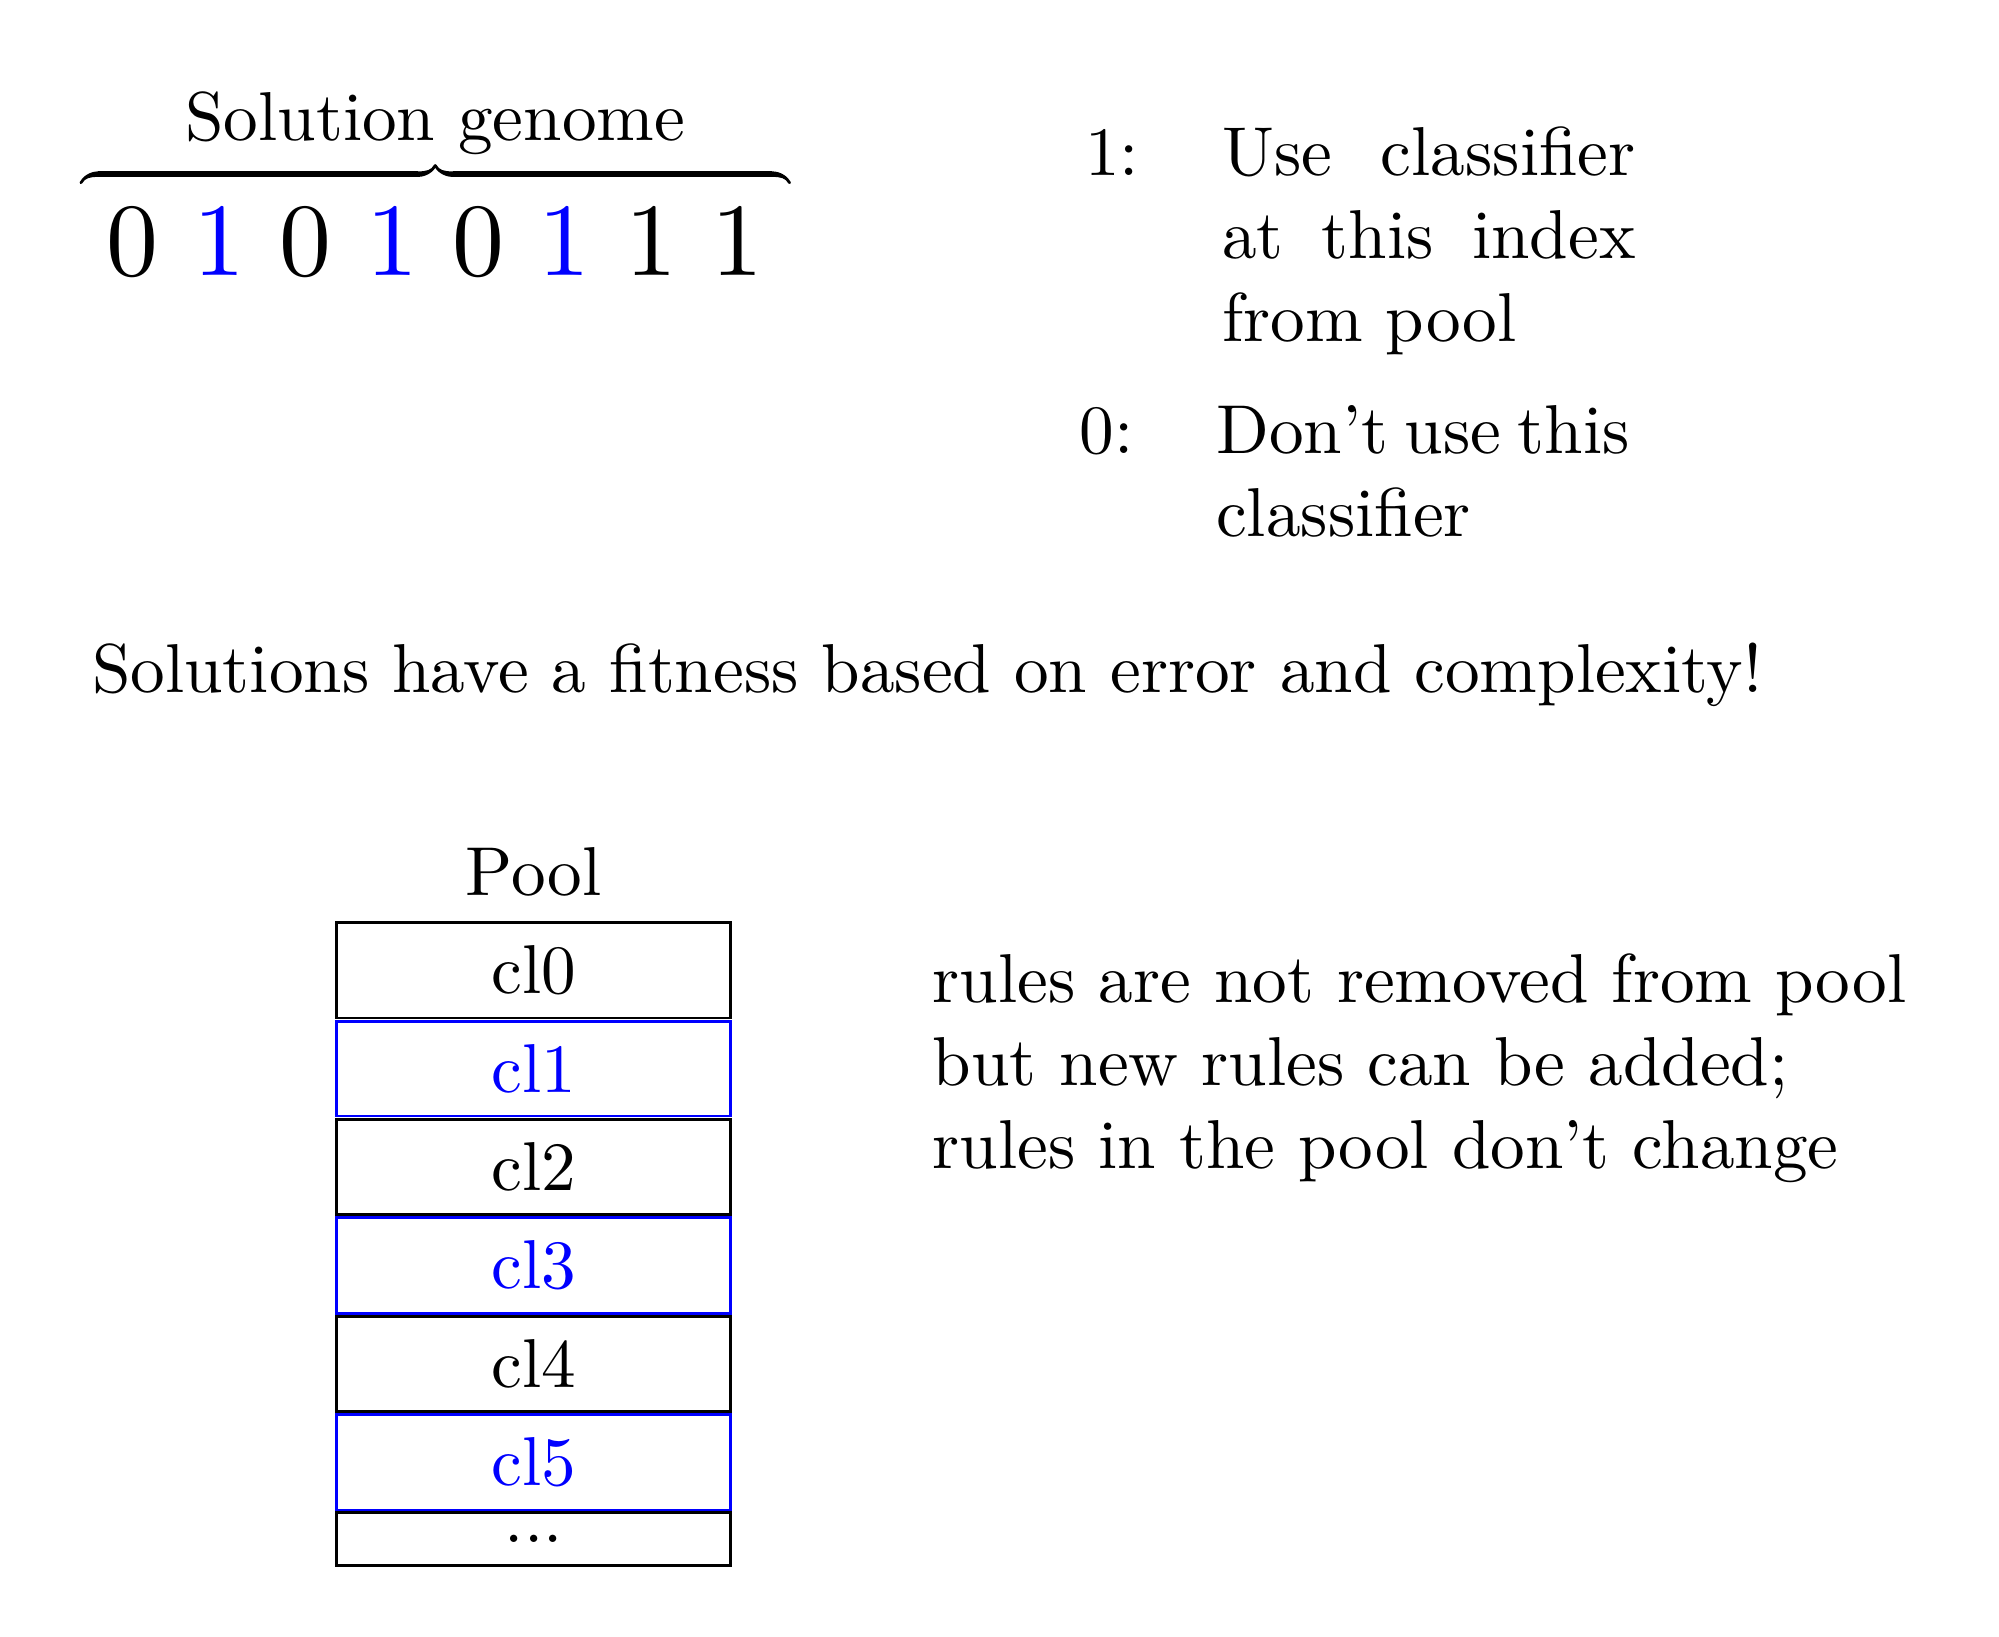
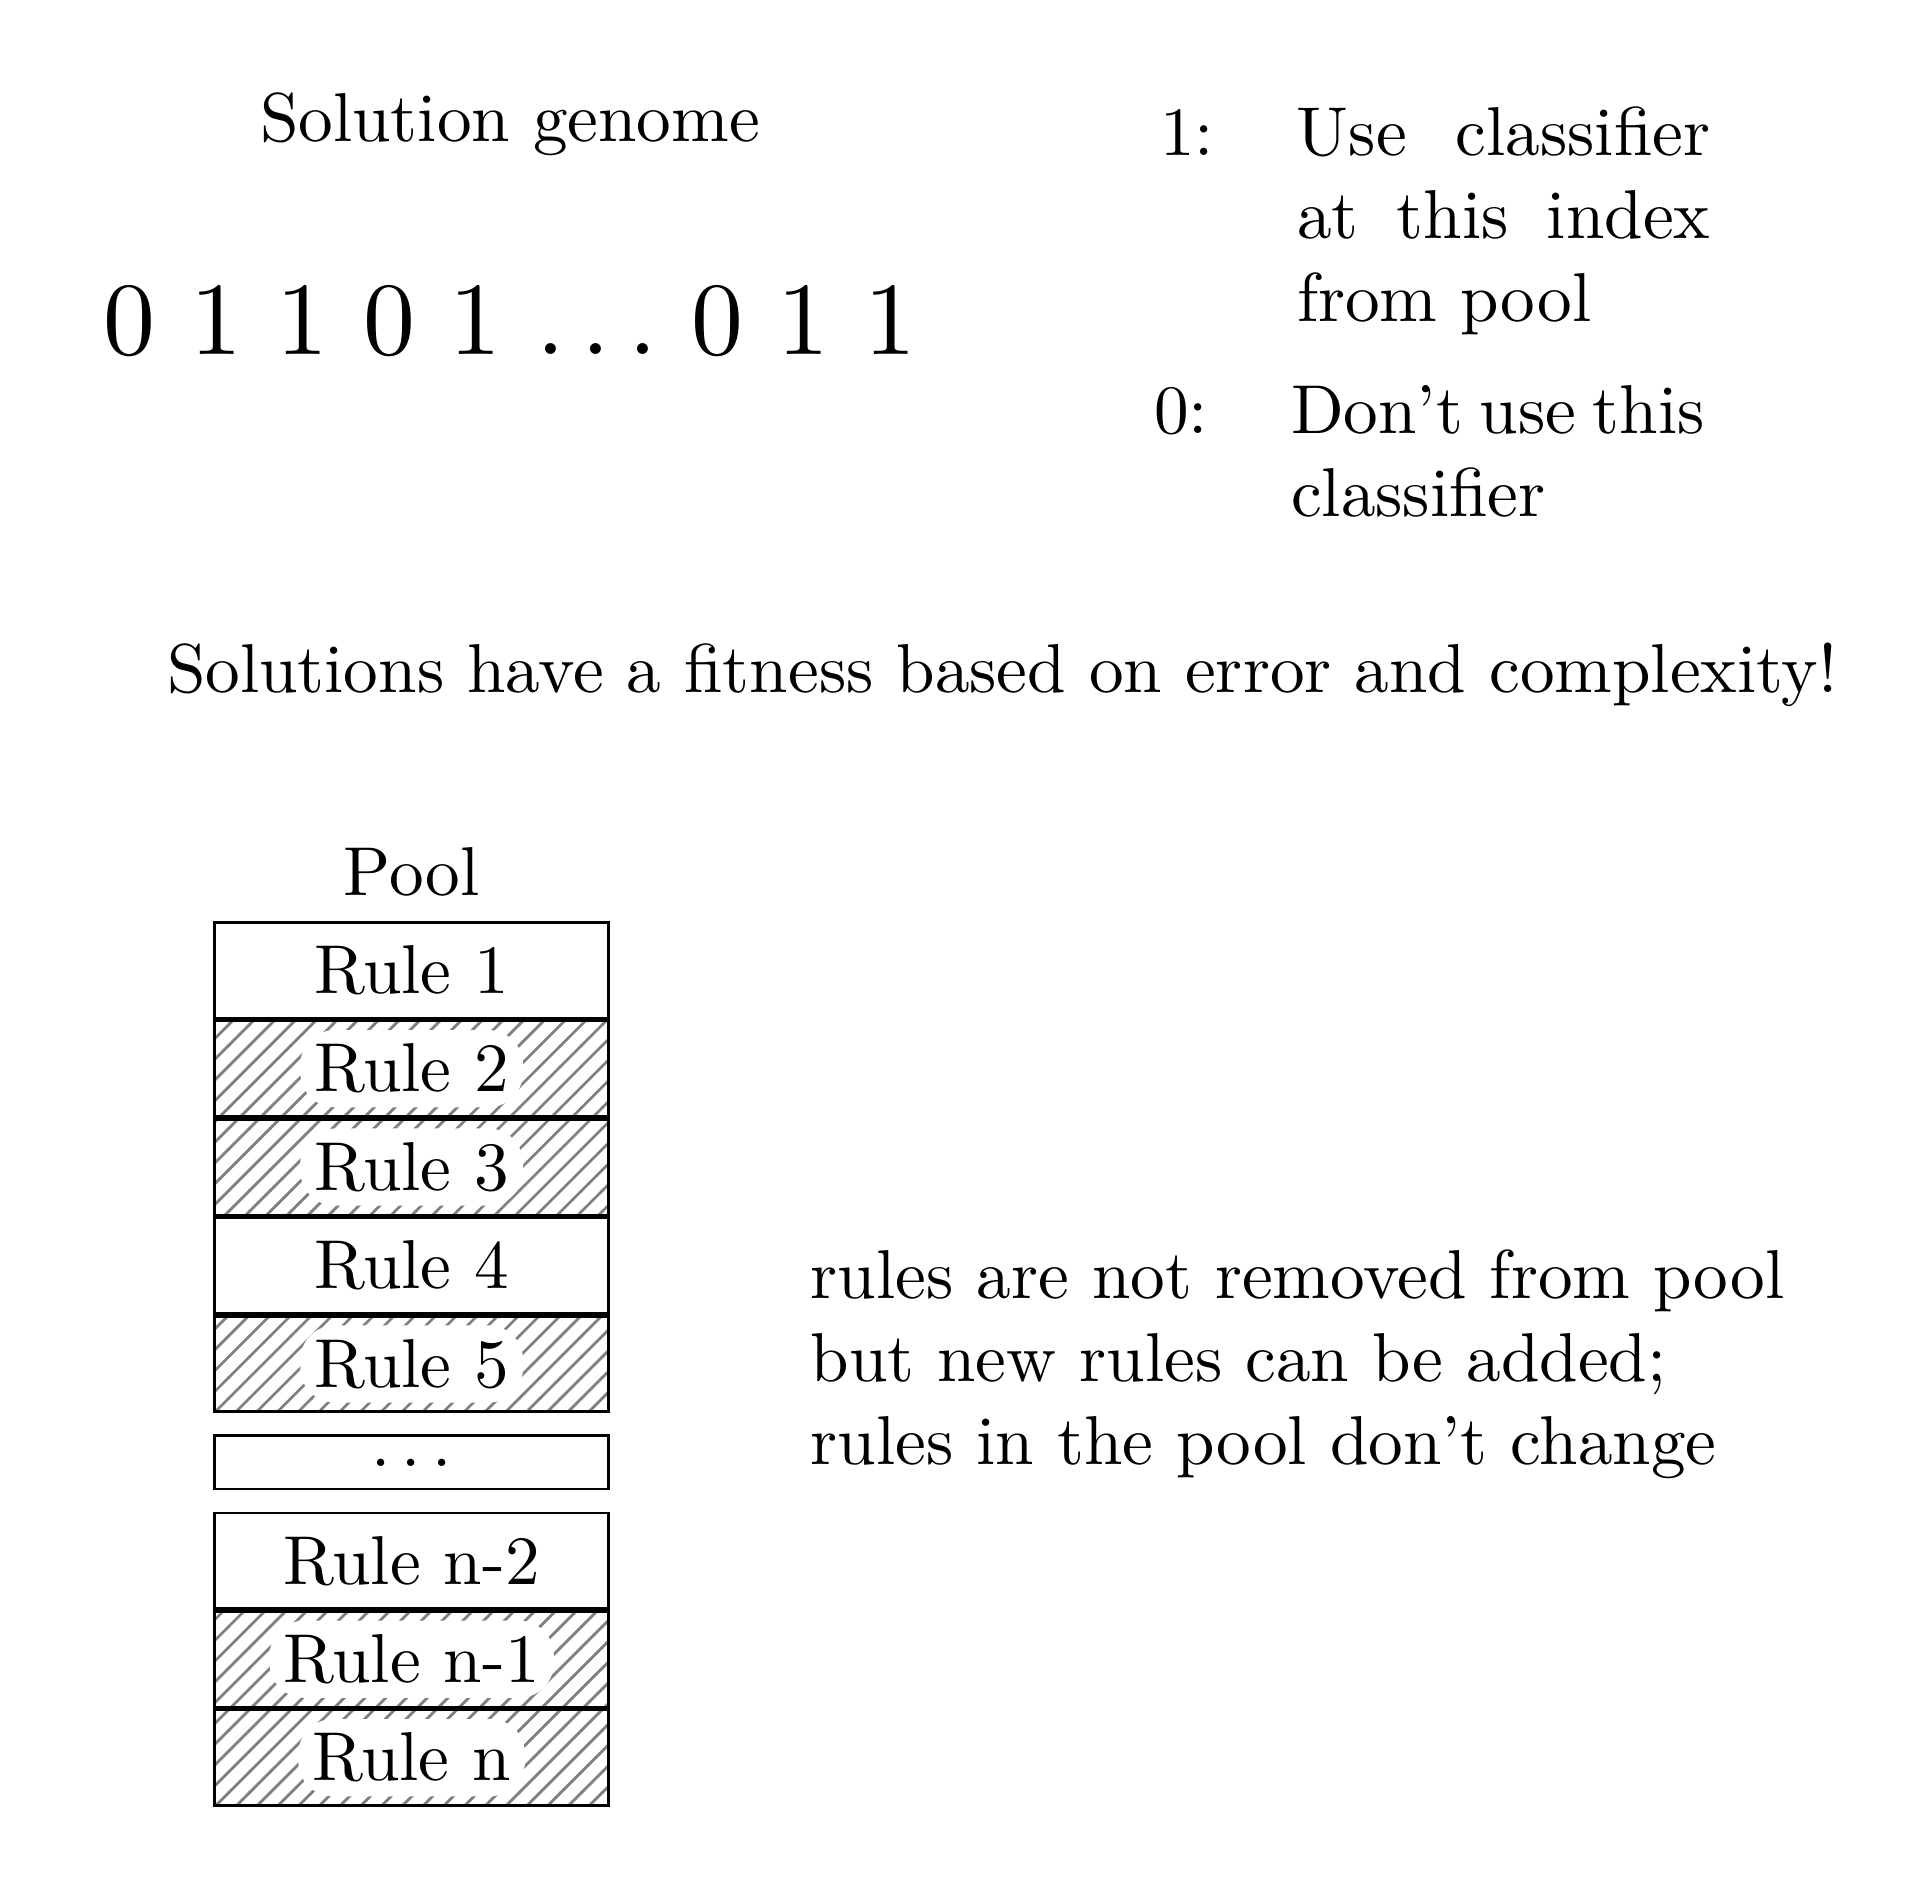
#73 Update graphics in docs (#75)
* #73 Update graphics in docs

diff --git a/docs/solution.tex b/docs/solution.tex
@@ -8,6 +8,7 @@
 \usetikzlibrary{calc}
 \usetikzlibrary{shapes}
 \usetikzlibrary{trees}
+\usetikzlibrary{patterns}
 \tikzset{>=stealth'}
 
 % for pic 3
@@ -22,29 +23,42 @@
 %pic 3
 \begin{tikzpicture}[every node/.style={draw=none,minimum width=2cm,align=center}]
 
-\draw node at (0,0.6) (sg) {Solution genome};
-\draw node[scale=1.5] at (0,0) (bin) {0 \blue 1 \black 0  \blue 1 \black 0 \blue 1 \black 1 1};
+\draw node[] (sg) {Solution genome};
+\draw node[scale=1.5] at (0,-1) (bin) {0 1 1 0 1 $\ldots$ 0 1 1};
 %\draw node at (-1.3,-0.8) (p) {current pool\\ length};
-\draw [decorate,thick,decoration = {calligraphic brace}] (-1.8,0.3) --  (1.8,0.3);
+%\draw [decorate,thick,decoration = {calligraphic brace}] (-1.8,0.3) --  (1.8,0.3);
 %\draw [decorate,thick,decoration = {calligraphic brace}] (0.5,-0.3) --  (-3,-0.3);
 
-\draw node[right of=bin,xshift=3.7cm,align=left] (one) {\begin{tabular}{cp{2.1cm}}
+\draw node[right of=sg,xshift=3.7cm,yshift=-.5cm,align=left] (one) {\begin{tabular}{cp{2.1cm}}
 1: & Use classifier at this index from pool \\
 \end{tabular}};
 \draw node[below of=one,xshift=-0.03cm,yshift=-0.2cm,align=left] (zero) {\begin{tabular}{cp{2.1cm}}0: & Don't use this classifier\end{tabular}};
 
-\draw node[below of=bin,xshift=2.5cm,yshift=-1.2cm,align=left] (s) {Solutions have a fitness based on error and complexity!};
+\draw node[below of=bin,xshift=2.5cm,yshift=-.8cm,align=left] (s) {Solutions have a fitness based on error and complexity!};
 
-\draw node[below of=s,xshift=-2cm] (pool) {Pool};
-\draw node[draw=black,rectangle,below of=pool,minimum width=2cm,yshift=0.5cm] (cla) {cl0};
-\draw node[draw=blue,rectangle,minimum width=2cm,below of=cla,yshift=0.5cm] (clb) {\blue cl1};
-\draw node[draw=black,rectangle,minimum width=2cm,below of=clb,yshift=0.5cm] (clc) {cl2};
-\draw node[draw=blue,rectangle,minimum width=2cm,below of=clc,yshift=0.5cm] (cld) {\blue cl3};
-\draw node[draw=black,rectangle,minimum width=2cm,below of=cld,yshift=0.5cm] (cle) {cl4};
-\draw node[draw=blue,rectangle,minimum width=2cm,below of=cle,yshift=0.5cm] (clf) {\blue cl5};
-\draw node[draw=black,rectangle,minimum width=2cm,below of=clf,yshift=0.61cm] (clx) {...};
+%\begin{tikzpicture}[every node/.style={draw=none,rectangle,minimum width=1.7cm,minimum height= 0.5cm,align=center}]
 
-\draw node[right of=pool,xshift=3.5cm,yshift=-1cm,align=left] (rules) {rules are not removed from pool\\ but new rules can be added;\\ rules in the pool don't change};
+\draw node[below of=s,xshift=-3cm] (pool) {Pool};
+%\draw node[draw=black,below of=pool,yshift=0.5cm] (cla) {Rule 1};
+\draw node[draw=black,yshift=0.5cm,below of=pool] (cla) {Rule 1};
+\draw node[draw=black,pattern=north east lines,pattern color=black!50,below of=cla,yshift=0.5cm] (clb) {Rule 2};
+\draw node[draw=black,pattern=north east lines,pattern color=black!50,below of=clb,yshift=0.5cm] (clc) {Rule 3};
+\draw node[draw=black,below of=clc,yshift=0.5cm] (cld) {Rule 4};
+\draw node[draw=black,pattern=north east lines,pattern color=black!50,below of=cld,yshift=0.5cm] (cle) {Rule 5};
+\draw node[draw=black,below of=cle,yshift=0.5cm] (clf) {$\ldots$};
+\draw node[draw=black,below of=clf,yshift=0.5cm] (clw) {Rule n-2};
+\draw node[draw=black,pattern=north east lines,pattern color=black!50,below of=clw,yshift=0.5cm] (clx) {Rule n-1};
+%\draw node[draw=black,below of=clx,yshift=0.5cm] (cly) {Rule n};
+\draw node[draw=black,pattern=north east lines,pattern color=black!50,below of=clx,yshift=0.5cm] (cly) {Rule n};
+
+\draw node[fill=white,rounded corners=5pt,below of=cla,minimum width=0.5cm,minimum height= 0.2cm,yshift=0.5cm,inner xsep=2pt, inner ysep=2pt] (clb2) {Rule 2};
+\draw node[fill=white,rounded corners=5pt,below of=clb,minimum width=0.5cm,minimum height= 0.2cm,yshift=0.5cm,inner xsep=2pt, inner ysep=2pt] (clc2) {Rule 3};
+\draw node[fill=white,rounded corners=5pt,below of=cld,minimum width=0.5cm,minimum height= 0.2cm,yshift=0.5cm,inner xsep=2pt, inner ysep=2pt] (cle2) {Rule 5};
+\draw node[fill=white,rounded corners=5pt,below of=clw,minimum width=0.5cm,minimum height= 0.2cm,yshift=0.5cm,inner xsep=2pt, inner ysep=2pt] (clx2) {Rule n-1};
+\draw node[fill=white,rounded corners=5pt,below of=clx,minimum width=0.5cm,minimum height= 0.2cm,yshift=0.5cm,inner xsep=2pt, inner ysep=2pt] (clx3) {Rule n};
+
+
+\draw node[right of=clf,xshift=3.5cm,yshift=.5cm,align=left] (rules) {rules are not removed from pool\\ but new rules can be added;\\ rules in the pool don't change};
 
 \end{tikzpicture}
 

diff --git a/docs/suprb2.tex b/docs/suprb2.tex
@@ -23,13 +23,16 @@
   
 
   \node[initial,state,minimum size=2.1cm] (D)                    {Discover\\ Rules};
-  \node[state,minimum size=2.1cm]         (C) [below of=D]       {Create\\ Solution\\ from Pool};
+  \node[state,minimum size=2.1cm]         (C) [below of=D]       {Compose\\ Solution\\ from Pool};
   \node[state,accepting,yshift=2cm,minimum size=0.1cm](T)[below of=C]		  {};
 
-  \path (D) edge[loop above] node {$-$ / $n++$}	(D)
-            edge[bend left]	node[align=right] {$n=n_{RD}$ / put rules into pool, $n\leftarrow0$}	(C)
+  \path (D) edge[loop above] node {$-$ / $n \leftarrow n+1$}	(D)
+            edge[bend left]	node[align=right] {
+            \begin{tabular}{p{1.8cm} @{\hspace{0.5\tabcolsep}} p{2.5cm}}
+            $n=n_{RD}$ / & \raggedright put rules into pool, $n\leftarrow0$
+            \end{tabular} }	(C)
 		(C) edge[bend left] node[align=right] {$n=n_{SC}$ / $n\leftarrow0$}	  	(D)
-			edge[loop right] node {$-$ / $n++$}		(C)
+			edge[loop right] node {$-$ / $n \leftarrow n+1$}		(C)
 			edge			  node[align=center] {termination criterion / $-$}		(T);
 \end{tikzpicture}
 
